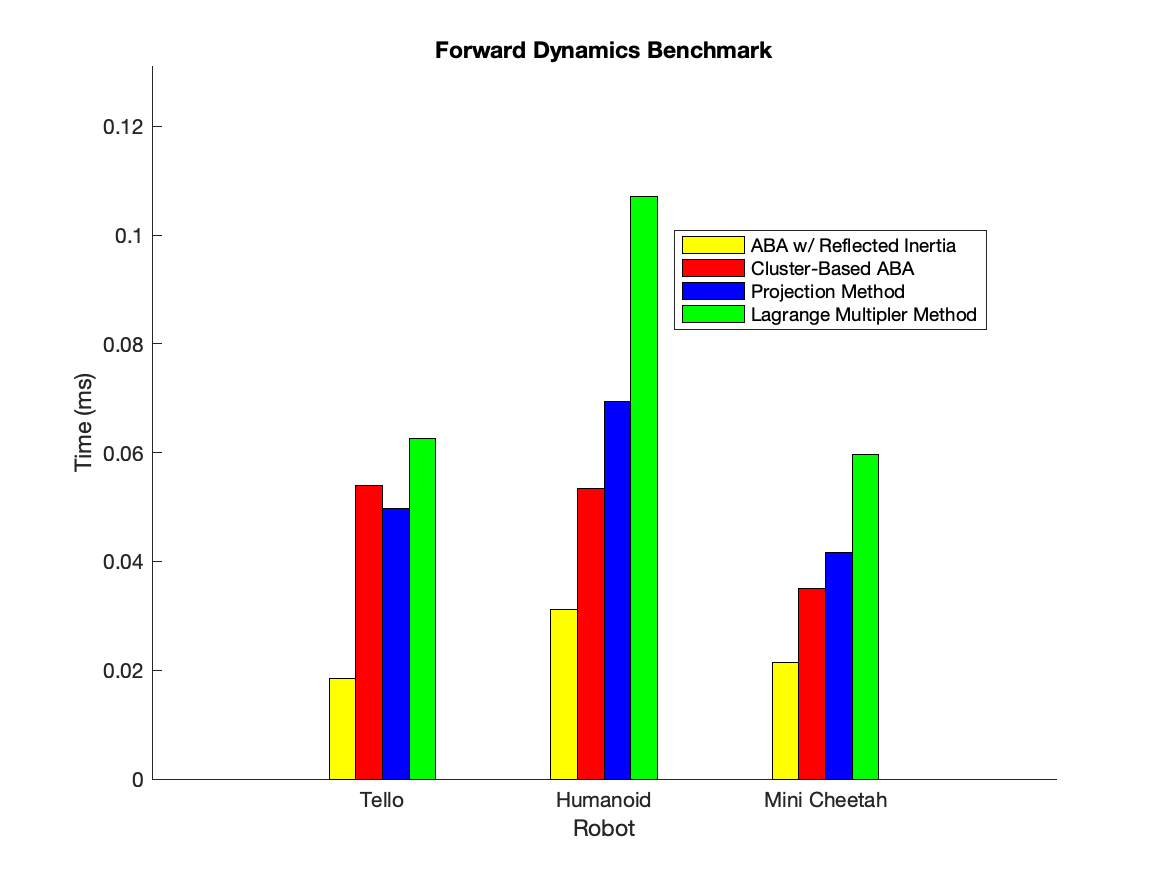
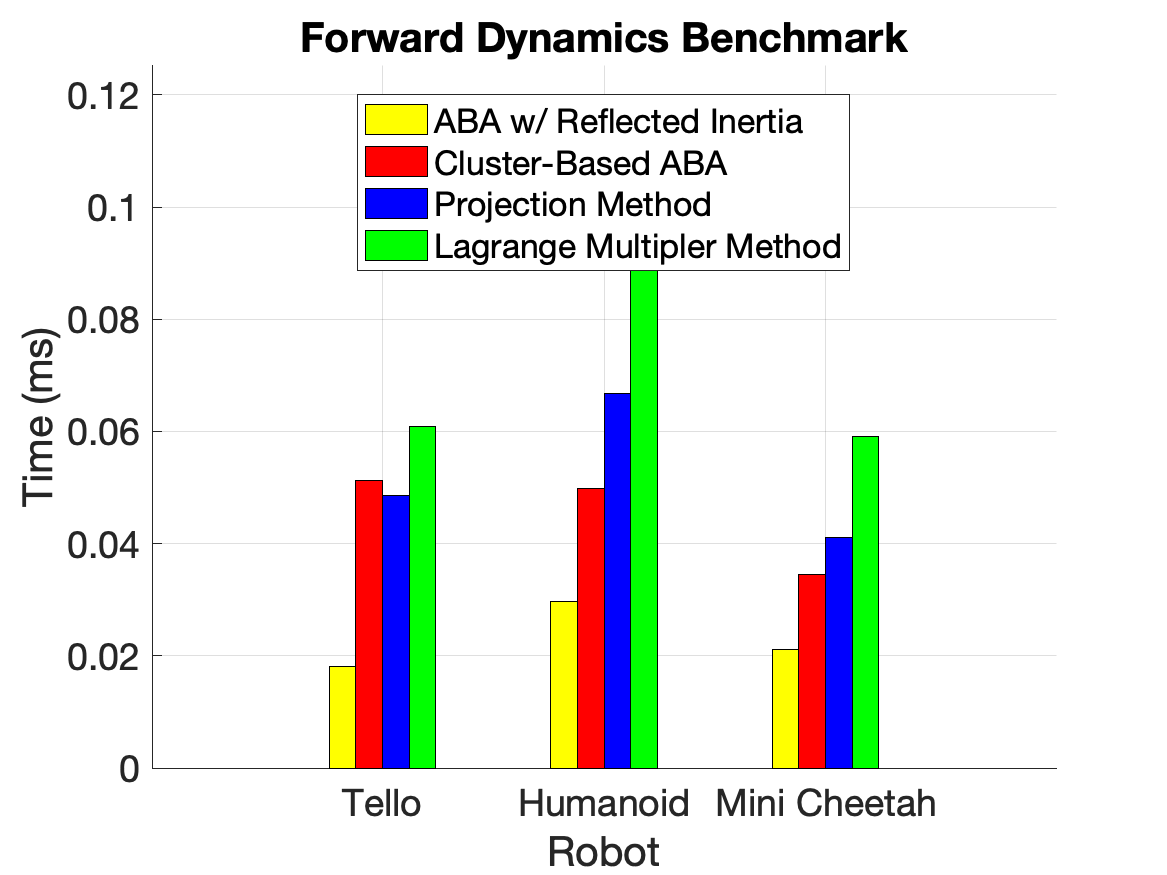
Plot formatting

diff --git a/Benchmarking/accuracy_benchmark_robots.m b/Benchmarking/accuracy_benchmark_robots.m
@@ -105,7 +105,8 @@ function lgd = compareInvDynAccuracy(data, robot_name, color, lgd)
 
     grid on
     xlabel('Percent of Max Acceleration', 'Interpreter', 'latex')
-    ylabel('Inverse Dynamics Error ($N\cdot m$)', 'Interpreter', 'latex')
+    ylabel('$\tau$ Error ($N\cdot m$)', 'Interpreter', 'latex')
+    title('Inverse Dynamics Error')
     legend(lgd, 'Location', 'Best', 'Interpreter', 'latex')
     set(gca, 'Fontsize', 20)
     set(gca, 'TickLabelInterpreter', 'latex')
@@ -119,7 +120,7 @@ function lgd = compareFwdDynAccuracy(data, robot_name, color, lgd)
     hold on
     lgd = [lgd, [robot_name, ' - Unconstrained']];
 
-    tol = 5;
+    tol = 80;
     if ~isApproxEqual(data(:, 2), data(:, 3), tol)
         semilogy(data(:, 1), data(:, 3), [color, '^--'], 'Linewidth', lw, 'MarkerSize', ms)
         lgd = [lgd, [robot_name, ' - Rotor Inertia Approx']];
@@ -127,7 +128,8 @@ function lgd = compareFwdDynAccuracy(data, robot_name, color, lgd)
 
     grid on
     xlabel('Percent of Max Torque', 'Interpreter', 'latex')
-    ylabel('Forward Dynamics Error ($rad/s^2$)', 'Interpreter', 'latex')
+    ylabel('$\ddot{q}$ Rrror (rad/$s^2$)', 'Interpreter', 'latex')
+    title('Forward Dynamics Error')
     legend(lgd, 'Location', 'Best', 'Interpreter', 'latex')
     set(gca, 'Fontsize', 20)
     set(gca, 'TickLabelInterpreter', 'latex')
@@ -141,7 +143,7 @@ function lgd = compareApplyTestForceAccuracy(data, robot_name, color, lgd)
     hold on
     lgd = [lgd, [robot_name, ' - Unconstrained']];
 
-    tol = 5;
+    tol = 50;
     if ~isApproxEqual(data(:, 2), data(:, 3), tol)
         semilogy(data(:, 1), data(:, 3), [color, '^--'], 'Linewidth', lw, 'MarkerSize', ms)
         lgd = [lgd, [robot_name, ' - Rotor Inertia Approx']];
@@ -149,7 +151,8 @@ function lgd = compareApplyTestForceAccuracy(data, robot_name, color, lgd)
 
     grid on
     xlabel('Percent of Max Force', 'Interpreter', 'latex')
-    ylabel('Apply Test Force Error ($rad/s^2$)', 'Interpreter', 'latex')
+    ylabel('$\Delta \dot{q}$ Error (rad/$s$)', 'Interpreter', 'latex')
+    title('Apply Test Force Error')
     legend(lgd, 'Location', 'Best', 'Interpreter', 'latex')
     set(gca, 'Fontsize', 20)
     set(gca, 'TickLabelInterpreter', 'latex')

diff --git a/Benchmarking/time_benchmark_robots.m b/Benchmarking/time_benchmark_robots.m
@@ -32,6 +32,8 @@ xlabel('Robot')
 ylabel('Time (ms)')
 title('Forward Dynamics Benchmark')
 legend('Location', 'best')
+grid on
+set(gca,'Fontsize',18)
 
 % Set the x-axis tick labels
 xticks(x)
@@ -75,6 +77,8 @@ xlabel('Robot')
 ylabel('Time (ms)')
 title('Inverse Dynamics Benchmark')
 legend('Location', 'best')
+grid on
+set(gca,'Fontsize',18)
 
 % Set the x-axis tick labels
 xticks(x)
@@ -119,6 +123,8 @@ xlabel('Robot')
 ylabel('Time (ms)')
 title('Apply Test Force Benchmark')
 legend('Location', 'best')
+grid on
+set(gca,'Fontsize',18)
 
 % Set the x-axis tick labels
 xticks(x)
